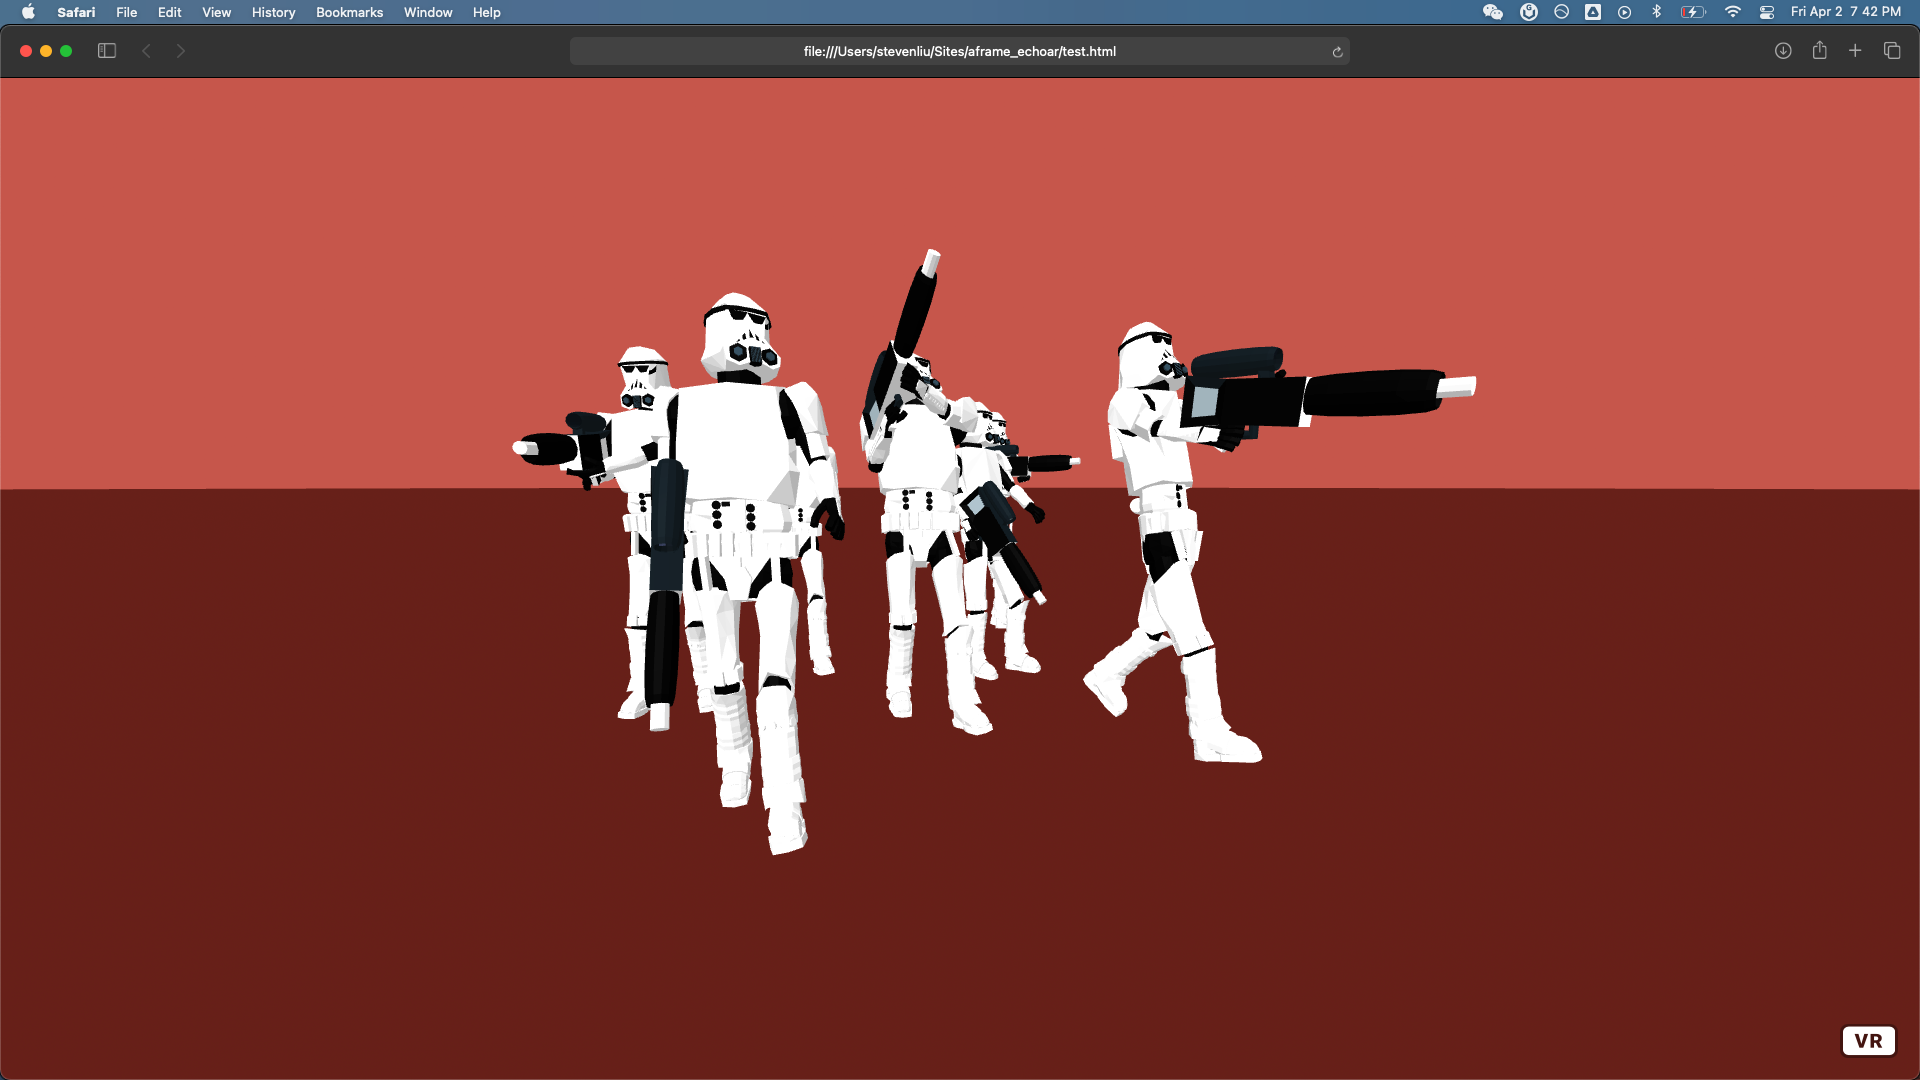
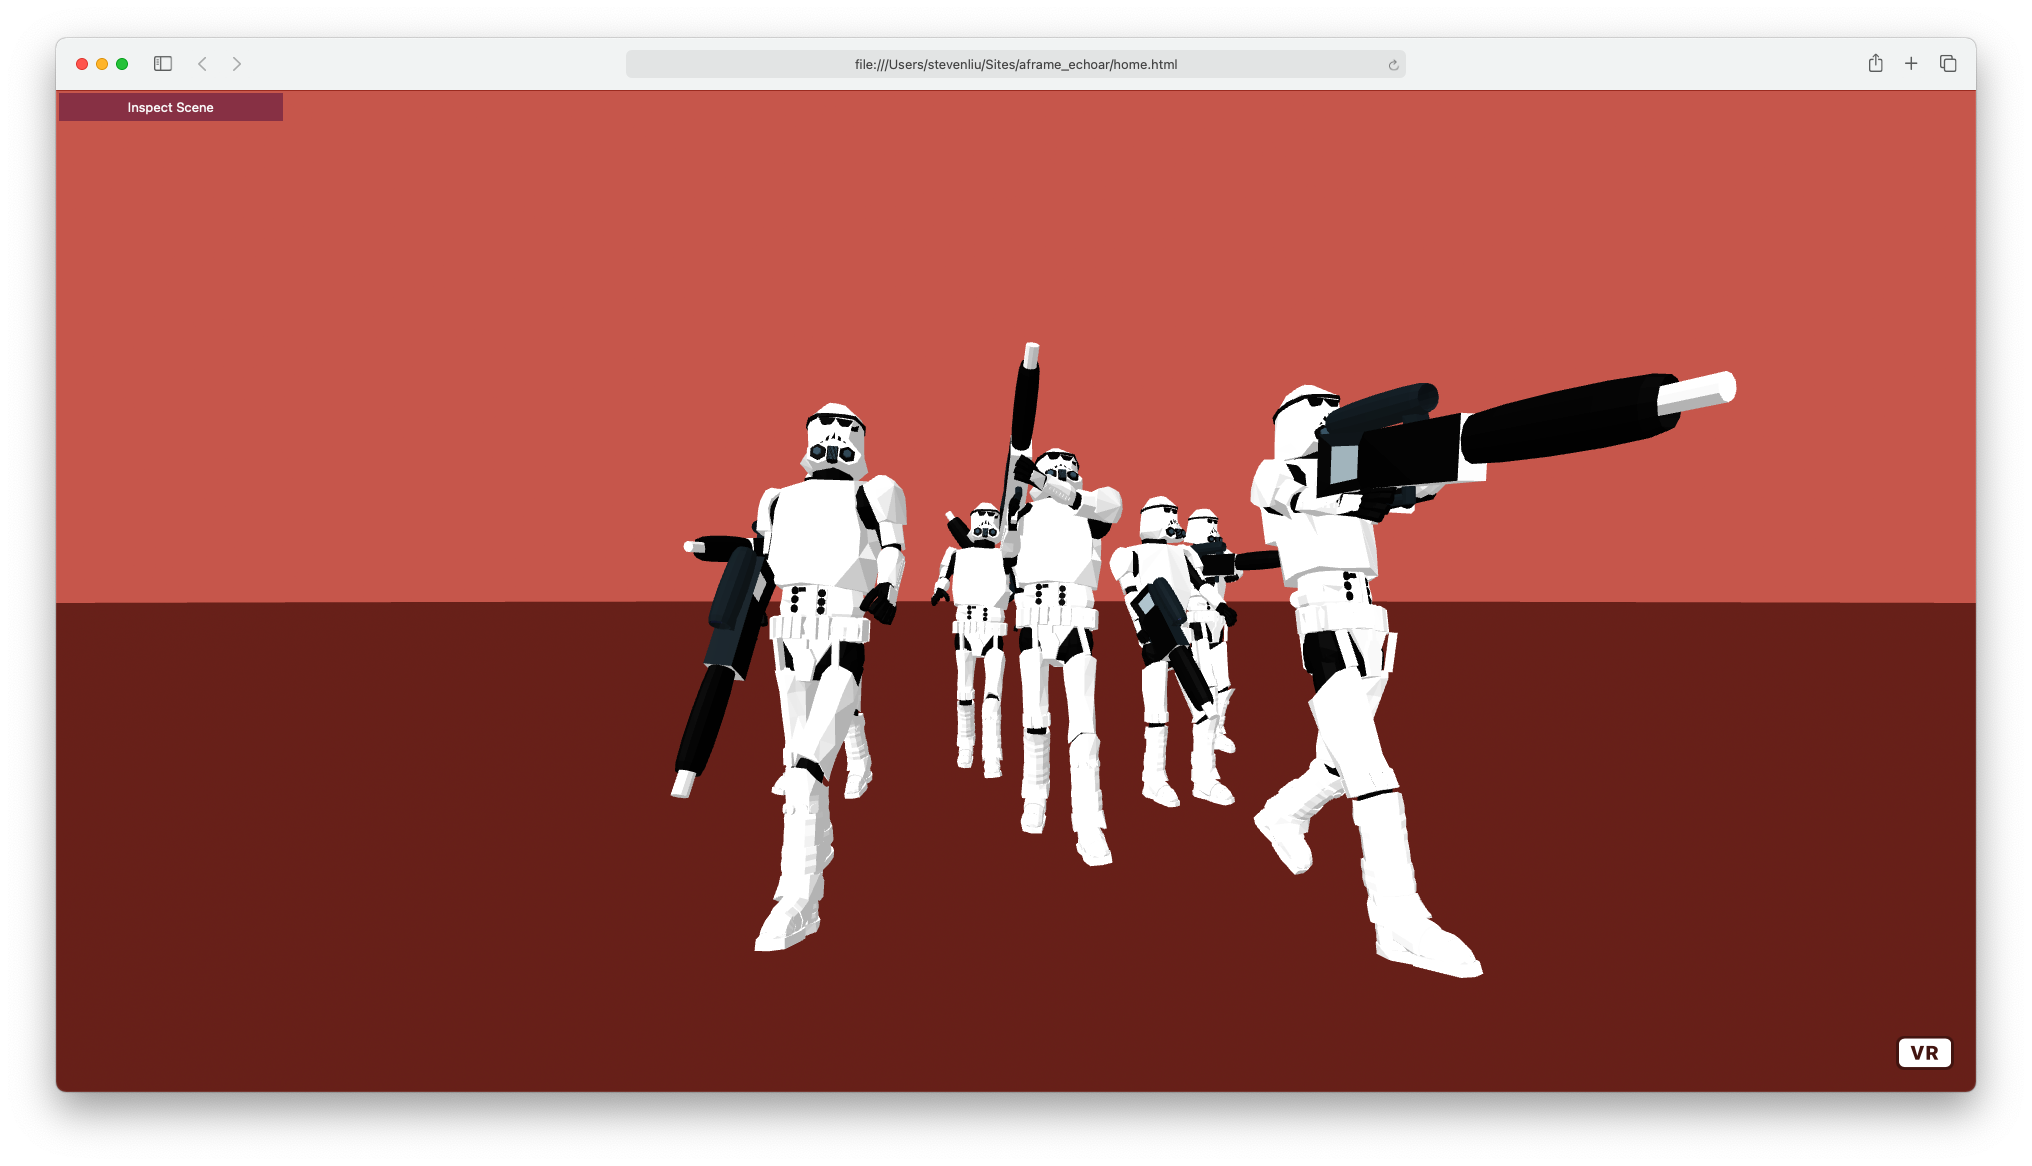
Updated with Aframe Inspector

diff --git a/home.html b/home.html
@@ -4,21 +4,21 @@
   </head>
 
   <body>
-    <a-scene>
+    <a-scene inspector="https://cdn.jsdelivr.net/gh/aframevr/aframe-inspector@master/dist/aframe-inspector.min.js">
       <!-- Storm Troopers -->
-      <a-entity gltf-model="url(https://console.echoar.xyz/query?key=crimson-sky-7281&file=e51e54c3-c14c-4d67-b69f-2fe2ef7973c5.glb)" position = '-1.2 1.5 -5' scale = '2 2 2'></a-entity>
+      <a-entity id="storm_troppers" position="-1.76541 1.56728 -4.94071" gltf-model="url(https://console.echoar.xyz/query?key=crimson-sky-7281&file=e51e54c3-c14c-4d67-b69f-2fe2ef7973c5.glb)" position = '-1.2 1.5 -5' scale = '2 2 2'></a-entity>
+      
       <!-- R2D2 -->
-      <a-entity gltf-model="url(https://console.echoar.xyz/query?key=crimson-sky-7281&file=6ddab898-f190-41cf-9a1a-e06499083db3.glb)" position = '-0.05 1.52 0.2' scale = '0.01 0.01 0.01' rotation = "0 90 0"></a-entity>
+      <a-entity id="r2d2" scale="0.1 0.1 0.1" position="-0.9701 0.87613 0.98051" gltf-model="url(https://console.echoar.xyz/query?key=crimson-sky-7281&file=6ddab898-f190-41cf-9a1a-e06499083db3.glb)" position = '-0.05 1.52 0.2' scale = '0.01 0.01 0.01' rotation = "0 90 0"></a-entity>
+      
       <!-- BB-8 -->
-      <a-entity gltf-model="url(https://console.echoar.xyz/query?key=crimson-sky-7281&file=98e0a92e-8598-4afd-a925-d6f273a194db.glb)" position = '0.04 1.4 0.18' scale = '0.1 0.1 0.1' rotation = "0 -90 0"></a-entity>
+      <a-entity id="bb8" visible="true" scale="1 1 1" position="0.04 -0.19389 0.1802" gltf-model="url(https://console.echoar.xyz/query?key=crimson-sky-7281&file=98e0a92e-8598-4afd-a925-d6f273a194db.glb)" position = '0.04 1.4 0.18' scale = '0.1 0.1 0.1' rotation = "0 -90 0"></a-entity>
       
       <!-- Ground -->
-      <a-plane position="0 0 0" rotation="-90 0 0" width="1000" height="1000" color="#641E16"></a-plane>
+      <a-plane id="plane" position="0 0 0" rotation="-90 0 0" width="1000" height="1000" color="#641E16"></a-plane>
       
       <!-- Sky -->
-      <a-sky color="#CD6155"></a-sky>
+      <a-sky id="sky" color="#CD6155"></a-sky>
     </a-scene>
   </body>
 </html>
-
-

diff --git a/README.md b/README.md
@@ -1,4 +1,6 @@
-# echoAR & A-Frame Demo 
+# **Using echoAR with A-Frame**
+
+## Intro
 
 This is a very short & fun tutorial to demonstrate how to use echoAR in [A-Frame](https://aframe.io/) (an widely-used open-source web framework). What do we end up with? An AR application that can run on almost all existing platforms (even on older phones) without using any third party apps.
 
@@ -15,7 +17,9 @@ First of all, let's start with a few tutorials:
 
 [echoAR Object](https://docs.echoar.xyz/objects) and [API](https://docs.echoar.xyz/queries): we'll use API calls to access files on your echoAR console. Make sure you read them all before we get started.
 
-## Get Started with A-Frame
+[A-Frame Visual Inspector & Dev Tools](https://aframe.io/docs/1.2.0/introduction/visual-inspector-and-dev-tools.html#a-frame-inspector): tools that will improve VR development experience with A-Frame.
+
+## Getting Started with A-Frame
 A simple A-Frame project can be a single HTML file no longer than 10 lines:
 ```
 <html>
@@ -33,10 +37,8 @@ You can add more objects inside the a-scene if you want. After opening the file,
 
 ![alt text](./Screenshots/cube.png)
 
-Now we are ready to look at how to use echoAR in A-Frame.
-
 ## A Look into the echoAR API Calls
-Assuming that you have "Skyscraper.obj" on your console, like this:
+Now we are ready to look at how to use echoAR in A-Frame. Assuming that you have "Skyscraper.obj" on your console, like this:
 
 ![alt text](./Screenshots/console.png)
 
@@ -46,7 +48,7 @@ https://console.echoAR.xyz/query?key=<API_KEY>
 ```
 to retrieve a data set of entries associated with your API key. Read more about API calls [here](https://docs.echoar.xyz/objects).
 
-You should use Postman and try it out yourself. Using the GET method, you'll see something like this:
+You should use [Postman](https://www.postman.com) and try it out yourself. Using the GET method, you'll see something like this:
 ![alt text](./Screenshots/postman.png)
 
 In "additionalData", you'll see "glbHologramStorageID". We will need it to retrieve the GLB file. Note that A-Frame supports GLB best, and file formats like OBJ may cause problems including missing texture (since file structures may be different).
@@ -88,17 +90,19 @@ and the code looks like this:
   <body>
     <a-scene>
       <!-- Storm Troopers -->
-      <a-entity gltf-model="url(https://console.echoar.xyz/query?key=crimson-sky-7281&file=e51e54c3-c14c-4d67-b69f-2fe2ef7973c5.glb)" position = '-1.2 1.5 -5' scale = '2 2 2'></a-entity>
+      <a-entity id="storm_troppers" position="-1.8 1.5 -5" gltf-model="url(https://console.echoar.xyz/query?key=crimson-sky-7281&file=e51e54c3-c14c-4d67-b69f-2fe2ef7973c5.glb)" position = '-1.2 1.5 -5' scale = '2 2 2'></a-entity>
+
       <!-- R2D2 -->
-      <a-entity gltf-model="url(https://console.echoar.xyz/query?key=crimson-sky-7281&file=6ddab898-f190-41cf-9a1a-e06499083db3.glb)" position = '-0.05 1.52 0.2' scale = '0.01 0.01 0.01' rotation = "0 90 0"></a-entity>
+      <a-entity id="r2d2" gltf-model="url(https://console.echoar.xyz/query?key=crimson-sky-7281&file=6ddab898-f190-41cf-9a1a-e06499083db3.glb)" position = '-0.05 1.52 0.2' scale = '0.01 0.01 0.01' rotation = "0 90 0"></a-entity>
+
       <!-- BB-8 -->
-      <a-entity gltf-model="url(https://console.echoar.xyz/query?key=crimson-sky-7281&file=98e0a92e-8598-4afd-a925-d6f273a194db.glb)" position = '0.04 1.4 0.18' scale = '0.1 0.1 0.1' rotation = "0 -90 0"></a-entity>
+      <a-entity id="bb8" gltf-model="url(https://console.echoar.xyz/query?key=crimson-sky-7281&file=98e0a92e-8598-4afd-a925-d6f273a194db.glb)" position = '0.04 1.4 0.18' scale = '0.1 0.1 0.1' rotation = "0 -90 0"></a-entity>
       
       <!-- Ground -->
-      <a-plane position="0 0 0" rotation="-90 0 0" width="1000" height="1000" color="#641E16"></a-plane>
+      <a-plane id="plane" position="0 0 0" rotation="-90 0 0" width="1000" height="1000" color="#641E16"></a-plane>
       
       <!-- Sky -->
-      <a-sky color="#CD6155"></a-sky>
+      <a-sky id="sky" color="#CD6155"></a-sky>
     </a-scene>
   </body>
 </html>
@@ -112,8 +116,103 @@ There you go!
 ![alt text](./Screenshots/1.png)
 ![alt text](./Screenshots/2.png)
 
+## A-Frame Inspctor
+
+What if I want to move the objects around with my mouse? You can use the A-Frame Inspector to inspect and tweak scenes. With the Inspector, you can simply move, rotate, and rescale the entities in the scene and see the result at real time (so you don't have to change the HTML file and recompile every time, which can be very annoying and inefficient).
+
+To try it out, you should specify a build of the Inspector in the scene like this:
+```
+<a-scene inspector="https://cdn.jsdelivr.net/gh/aframevr/aframe-inspector@master/dist/aframe-inspector.min.js">
+  <!-- ... -->
+</a-scene>
+```
+
+So our code now looks like this:
+```
+<html>
+  <head>
+    <script src="https://aframe.io/releases/1.2.0/aframe.min.js"></script>
+  </head>
+
+  <body>
+    <a-scene inspector="https://cdn.jsdelivr.net/gh/aframevr/aframe-inspector@master/dist/aframe-inspector.min.js">
+      <!-- Storm Troopers -->
+      <a-entity id="storm_troppers" position="-1.76541 1.56728 -4.94071" gltf-model="url(https://console.echoar.xyz/query?key=crimson-sky-7281&file=e51e54c3-c14c-4d67-b69f-2fe2ef7973c5.glb)" position = '-1.2 1.5 -5' scale = '2 2 2'></a-entity>
+      
+      <!-- R2D2 -->
+      <a-entity id="r2d2" scale="0.1 0.1 0.1" position="-0.9701 0.87613 0.98051" gltf-model="url(https://console.echoar.xyz/query?key=crimson-sky-7281&file=6ddab898-f190-41cf-9a1a-e06499083db3.glb)" position = '-0.05 1.52 0.2' scale = '0.01 0.01 0.01' rotation = "0 90 0"></a-entity>
+      
+      <!-- BB-8 -->
+      <a-entity id="bb8" visible="true" scale="1 1 1" position="0.04 -0.19389 0.1802" gltf-model="url(https://console.echoar.xyz/query?key=crimson-sky-7281&file=98e0a92e-8598-4afd-a925-d6f273a194db.glb)" position = '0.04 1.4 0.18' scale = '0.1 0.1 0.1' rotation = "0 -90 0"></a-entity>
+      
+      <!-- Ground -->
+      <a-plane id="plane" position="0 0 0" rotation="-90 0 0" width="1000" height="1000" color="#641E16"></a-plane>
+      
+      <!-- Sky -->
+      <a-sky id="sky" color="#CD6155"></a-sky>
+    </a-scene>
+  </body>
+</html>
+```
+
+Then, you can press ```<ctrl> + <alt> + i``` on the browser page to enter the A-Frame Inspector. However, if you don't have aframe-watcher installed locally, you won't be able to modify the HTML file from the inspector.
+
+So, let's install aframe-watcher:
+```
+npm install -g aframe-watcher
+```
+
+Then, navigate to your project folder and start it:
+```
+aframe-watcher
+```
+
+Alternatively, you can specify which HTML file to use:
+```
+aframe-watcher home.html
+```
+
+Now, it'll start watching for changes from the Inspector:
+
+![alt text](./Screenshots/start.png)
+
+Now we are ready to enter the A-Frame Inspector. Simply press ```<ctrl> + <alt> + i``` on the browser page:
+
+![alt text](./Screenshots/inspector.png)
+
+You can see all entities are listed on the left. If we click on one of the entities on the list (or simply click on the entity in the scene), we'll be able to select the entity and see its attributes (e.g., position, rotation, scale, and even link to the gltf-model). You can also move the entities around by dragging on an axis.
+
+![alt text](./Screenshots/inspector-select.png)
+
+When you're done moving your entities around, you might want to save the file. Just click on the button on the upperleft:
+
+![alt text](./Screenshots/save1.png)
+
+and then navigate to your Terminal. It'll prompt you to confirm the changes:
+
+![alt text](./Screenshots/save2.png)
+
+Now, if you go to your HTML file, you'll find that all the attributes you modified from the Inspector are updated.
+
+To know more about Inspector and other tools, navigate to A-Frame's [tutorial](https://aframe.io/docs/1.2.0/introduction/visual-inspector-and-dev-tools.html#a-frame-inspector). 
+
+
+
 ## Debug
-If you can't see your object, your 3D object is most definitely too large. In this case, try to downsize the object.
+- If you can't see your objects, most likely they are too large. Try to scale them down.
+
+- Note that aframe-watcher can only update entities that have defined IDs, so if your changes are not saved, you might forgot adding an ID to your entities. You can add IDs like this:
+  ```
+  <a-entity id="<ID_OF_YOUR_ENTITY>"></a-entity>
+  ```
+
+- If you see this message, that means you did not install your aframe-watcher properly. In this case, reinstall and try again.
+  
+  ![alt text](./Screenshots/inspector_error.png)
 
 ## Support
 Feel free to reach out at [support@echoAR.xyz](mailto:support@echoAR.xyz) or join our [support channel on Slack](https://join.slack.com/t/echoar/shared_invite/enQtNTg4NjI5NjM3OTc1LWU1M2M2MTNlNTM3NGY1YTUxYmY3ZDNjNTc3YjA5M2QyNGZiOTgzMjVmZWZmZmFjNGJjYTcxZjhhNzk3YjNhNjE). 
+
+
+#### By Steven Liu
+#### April 3, 2021
